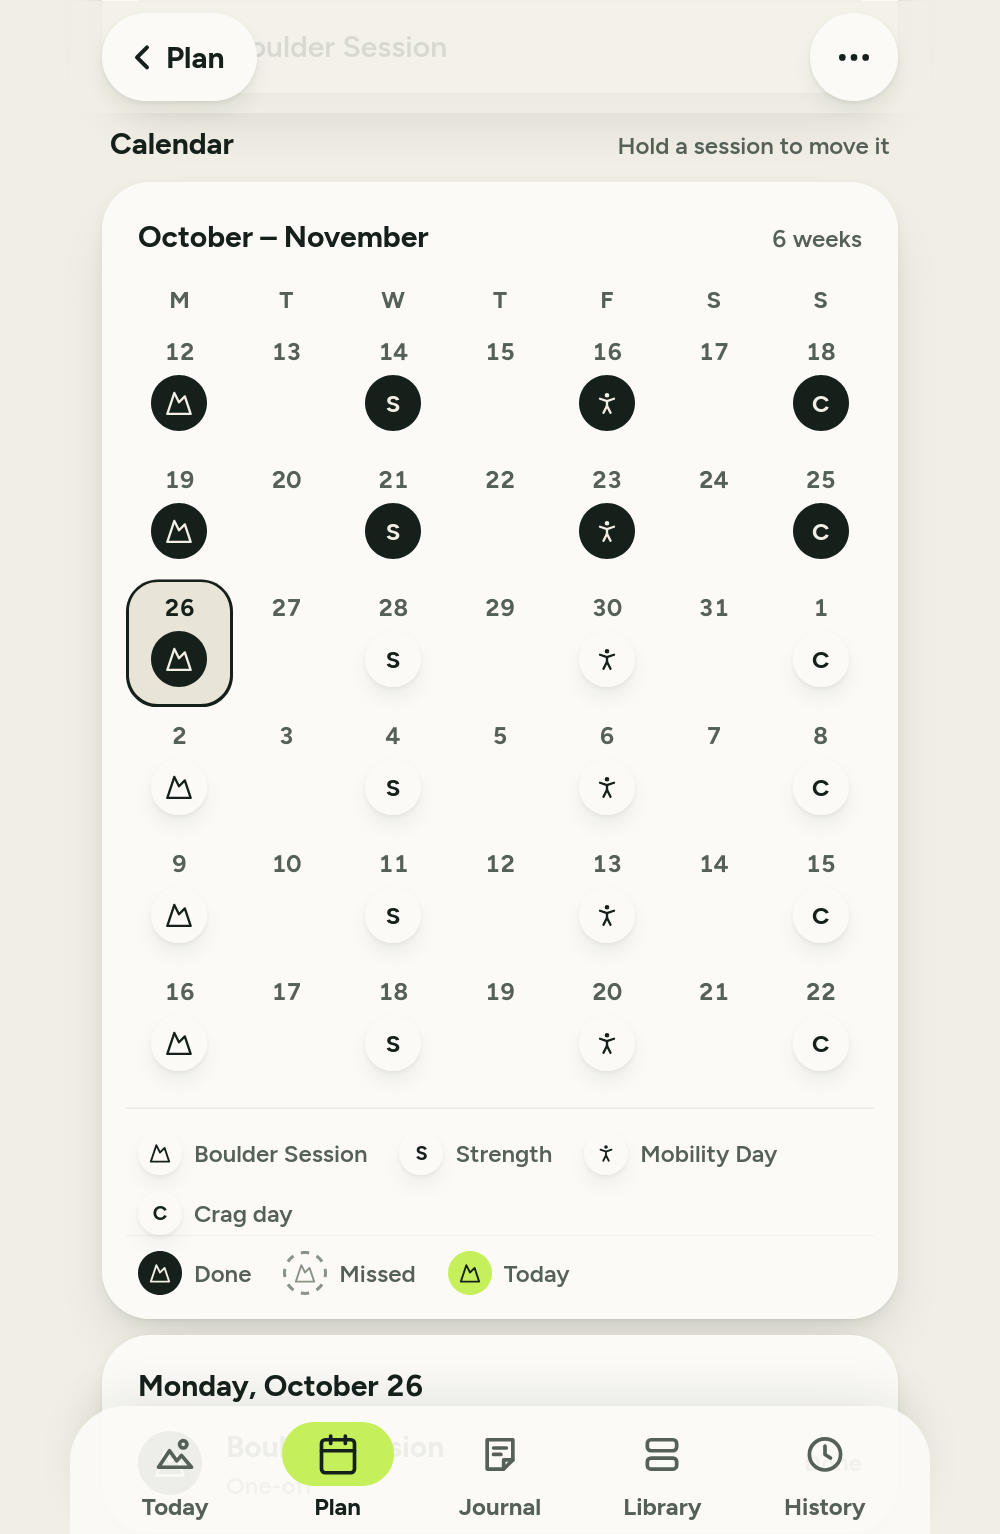
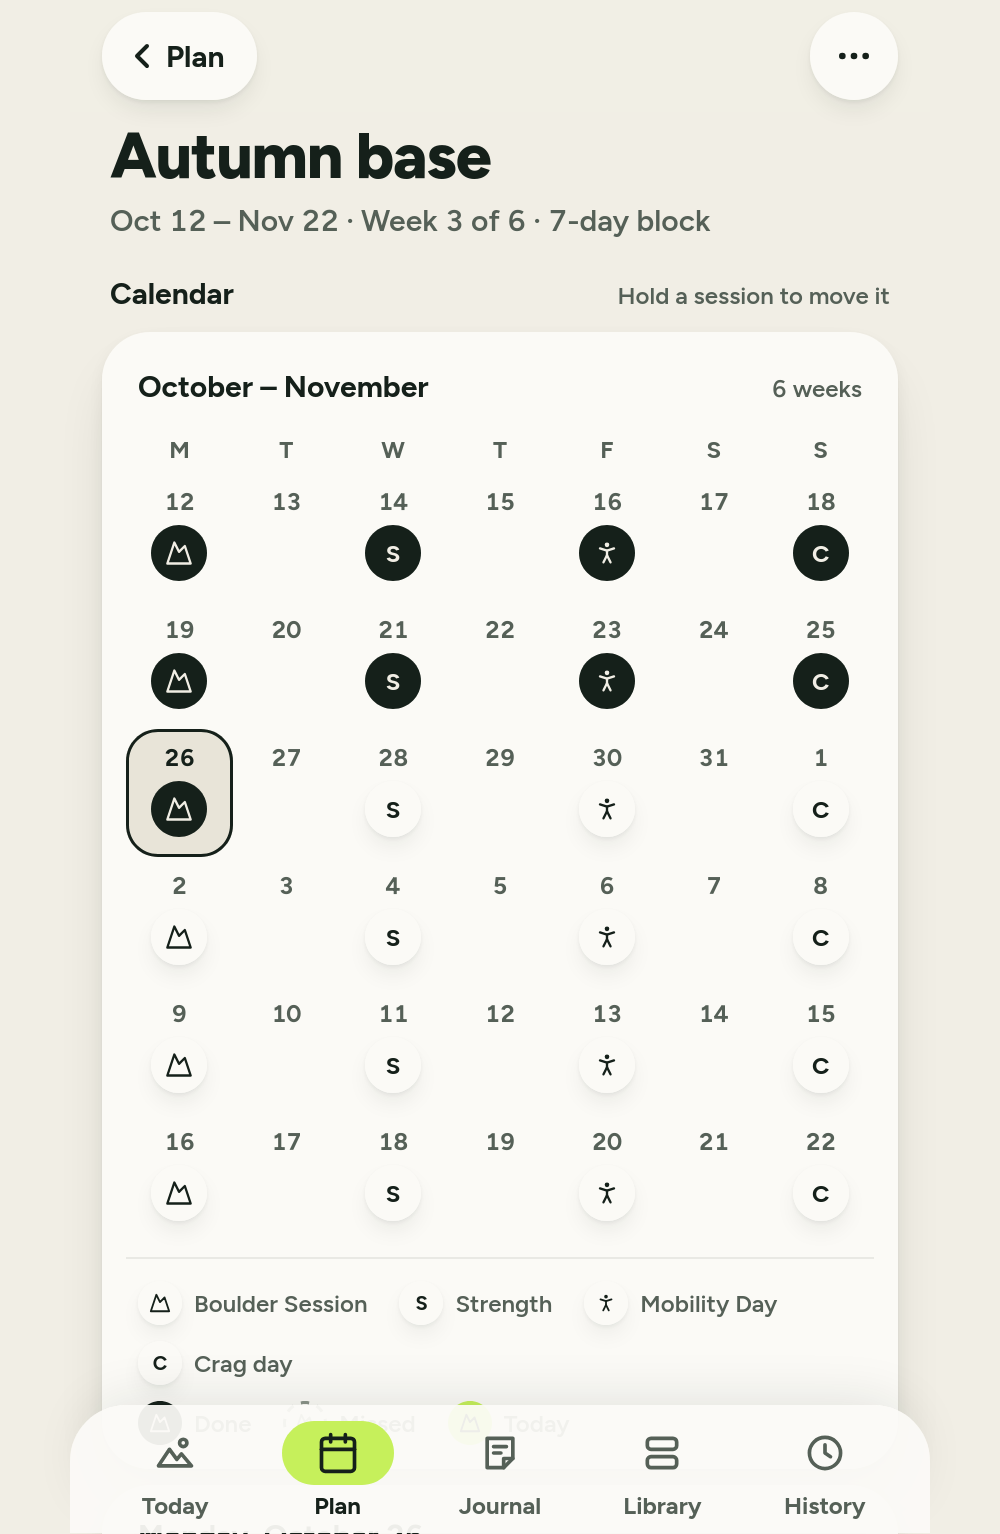
docs: rewrite the readme around captioned screenshots

diff --git a/readme.md b/readme.md
@@ -1,7 +1,5 @@
 <h1 align="center">Passion</h1>
 
-<p align="center">A training log and planner for climbers that you host yourself.</p>
-
 <p align="center">
   <img src="https://img.shields.io/badge/Go-1.26-00ADD8?style=flat-square&logo=go&logoColor=white" alt="Go 1.26">
   <img src="https://img.shields.io/badge/PostgreSQL-18-4169E1?style=flat-square&logo=postgresql&logoColor=white" alt="PostgreSQL 18">
@@ -9,55 +7,68 @@
   <img src="https://img.shields.io/badge/licence-PolyForm_Noncommercial-555?style=flat-square" alt="PolyForm Noncommercial">
 </p>
 
+<p align="center">Passion is a training log for climbers.</p>
+
 <p align="center"><img src="docs/screenshots/laptop-today.png" alt="Today on a laptop: last week, this week and next beside today's session" width="900"></p>
 
 ## Plan
 
-Cycles of sessions that repeat each week. A missed day stays on the calendar.
+Plan your training in cycles.
 
-<p align="center">
-  <img src="docs/screenshots/phone-today.png" alt="Today on a phone" width="240">
-  <img src="docs/screenshots/phone-plan.png" alt="The schedule for last week and this week" width="240">
-  <img src="docs/screenshots/phone-cycle.png" alt="A six-week cycle on a calendar" width="240">
-</p>
+<table>
+  <tr>
+    <td align="center"><img src="docs/screenshots/phone-cycle.png" alt="A six-week cycle on a calendar" width="200"><br>A cycle</td>
+    <td align="center"><img src="docs/screenshots/phone-today.png" alt="Today with this week and the next session" width="200"><br>Today</td>
+  </tr>
+</table>
 
 ## Train
 
-One step at a time, with last time's numbers beside each set. Hang timers that sound on a
-silenced iPhone. Every go on a climb, with sends and flashes worked out. Logs without signal.
+Run a session: hangs, sets and reps, climbs.
 
-<p align="center">
-  <img src="docs/screenshots/phone-session.png" alt="A session in progress" width="240">
-  <img src="docs/screenshots/phone-timer.png" alt="A hang timer counting down" width="240">
-  <img src="docs/screenshots/phone-climbs.png" alt="Logging a climb" width="240">
-</p>
+<table>
+  <tr>
+    <td align="center"><img src="docs/screenshots/phone-session.png" alt="A session with its sections" width="200"><br>The session</td>
+    <td align="center"><img src="docs/screenshots/phone-sets.png" alt="Sets with last time's reps and weight" width="200"><br>Sets</td>
+    <td align="center"><img src="docs/screenshots/phone-timer.png" alt="A hang timer counting down" width="200"><br>Hang timer</td>
+    <td align="center"><img src="docs/screenshots/phone-climbs.png" alt="Logging a climb" width="200"><br>Climbs</td>
+  </tr>
+</table>
 
 ## Look back
 
-Hours, climbs and a grade pyramid for 10 weeks, one cycle or any dates. A history for each
-exercise.
+See your hours, climbs and grades over time.
 
-<p align="center">
-  <img src="docs/screenshots/phone-history.png" alt="History with time, climbs and hardest send" width="240">
-  <img src="docs/screenshots/phone-progress.png" alt="Progress for climbs" width="240">
-</p>
-<p align="center">
-  <img src="docs/screenshots/phone-past.png" alt="A past session with its session journal and sets" width="240">
-  <img src="docs/screenshots/phone-exercise.png" alt="The history of weighted pull-ups" width="240">
-</p>
+<table>
+  <tr>
+    <td align="center"><img src="docs/screenshots/phone-history.png" alt="History with time, climbs and hardest send" width="200"><br>History</td>
+    <td align="center"><img src="docs/screenshots/phone-past.png" alt="A past session with its session journal and sets" width="200"><br>A past session</td>
+    <td align="center"><img src="docs/screenshots/phone-progress.png" alt="Progress for climbs" width="200"><br>Progress</td>
+    <td align="center"><img src="docs/screenshots/phone-exercise.png" alt="The history of weighted pull-ups" width="200"><br>One exercise</td>
+  </tr>
+</table>
 
 ## Journal
 
-Notes on your climbing. A pinned note shows on Today and at the start of each session.
+Keep a training journal.
 
-<p align="center">
-  <img src="docs/screenshots/phone-journal.png" alt="The Journal with two pinned notes" width="240">
-</p>
+<table>
+  <tr>
+    <td align="center"><img src="docs/screenshots/phone-journal.png" alt="The Journal with two pinned notes" width="200"><br>Journal</td>
+    <td align="center"><img src="docs/screenshots/phone-pinned.png" alt="Pinned notes at the start of a session" width="200"><br>Pinned at the start of a session</td>
+  </tr>
+</table>
 
 ## Make your own
 
-Build exercises and sessions in the app, or load them from files as a private catalog.
-Boulders in Font or V, routes in French or YDS.
+Use the exercises and sessions that come with the app, or build your own.
+
+<table>
+  <tr>
+    <td align="center"><img src="docs/screenshots/phone-library.png" alt="The library of sessions" width="200"><br>Library</td>
+    <td align="center"><img src="docs/screenshots/phone-template.png" alt="The sections of a session" width="200"><br>A session's sections</td>
+  </tr>
+</table>
 
 ## Run it
 
@@ -68,17 +79,16 @@ make image
 docker run -e DATABASE_URL=postgres://... -p 8080:8080 passion:dev
 ```
 
-Open <http://localhost:8080> and sign up. On an iPhone, add it to the Home Screen from
-Safari's Share menu, then sign in again there.
+Open <http://localhost:8080> and sign up. On an iPhone, add it to the Home Screen from Safari.
 
 From source: install [nix](https://nixos.org), then run `nix develop` and `make run`.
 
 ## Docs
 
-- [Deploy](docs/DEPLOY.md): configuration, deploys and backups.
-- [Develop](docs/DEVELOPMENT.md): setup, where code goes, and styling.
-- [Catalog format](docs/CATALOG_FORMAT.md): exercises and sessions as files.
-- API docs: `/api/docs/` on a running server.
+- [Deploy](docs/DEPLOY.md)
+- [Develop](docs/DEVELOPMENT.md)
+- [Catalog format](docs/CATALOG_FORMAT.md)
+- API docs at `/api/docs/` on a running server
 
 ## Licence
 
